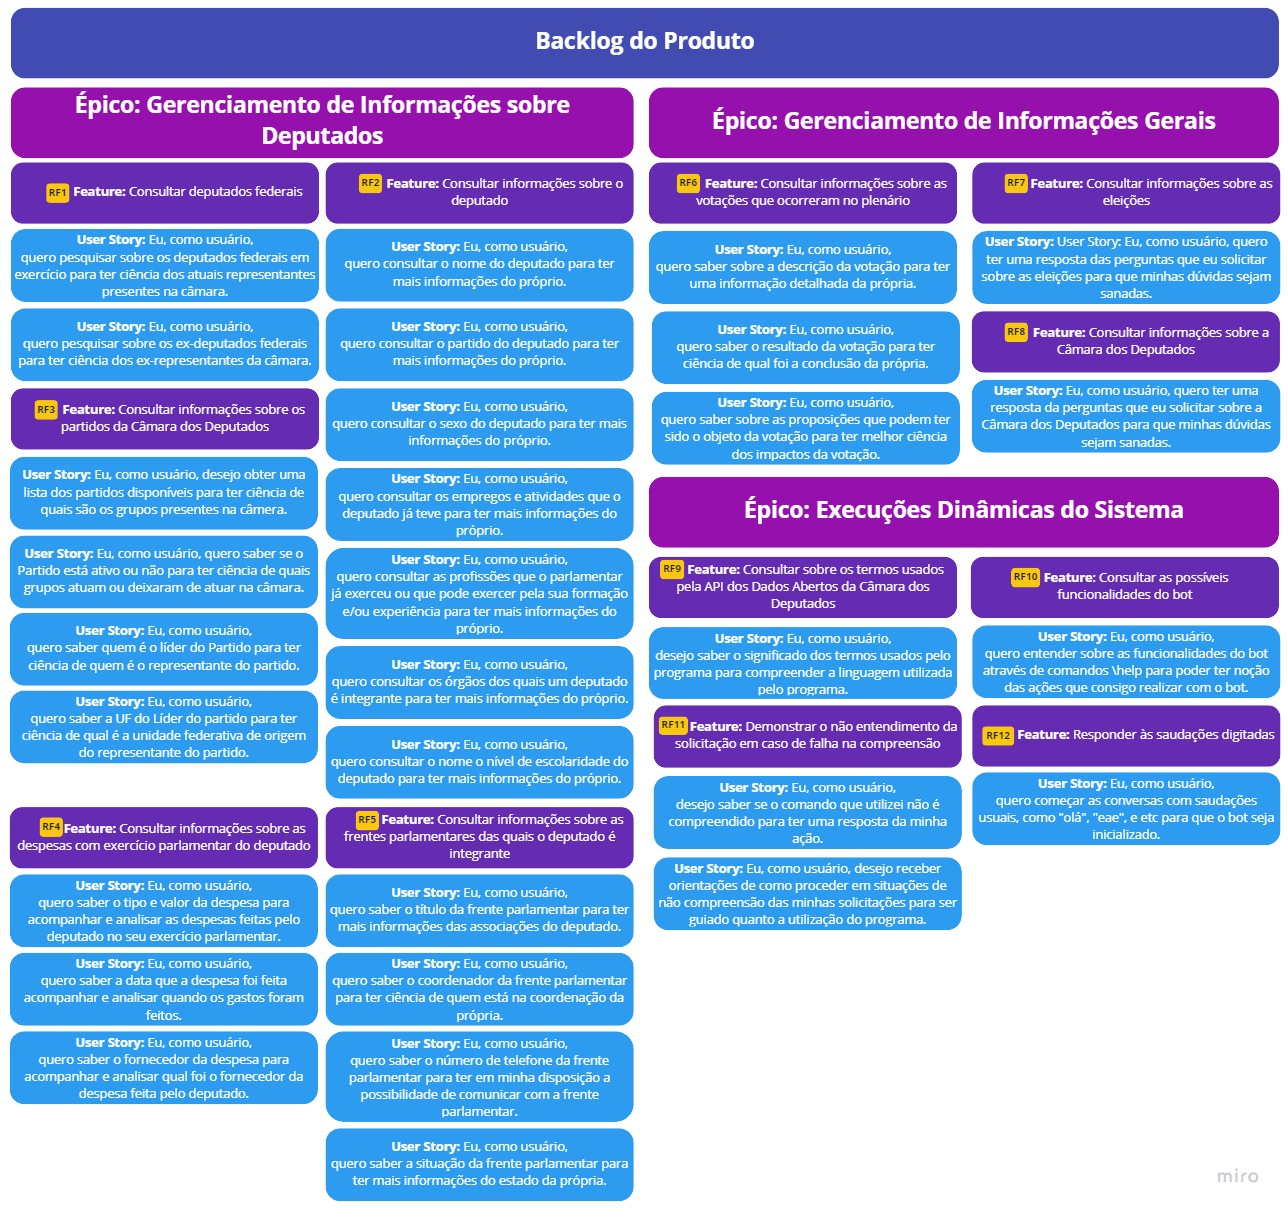
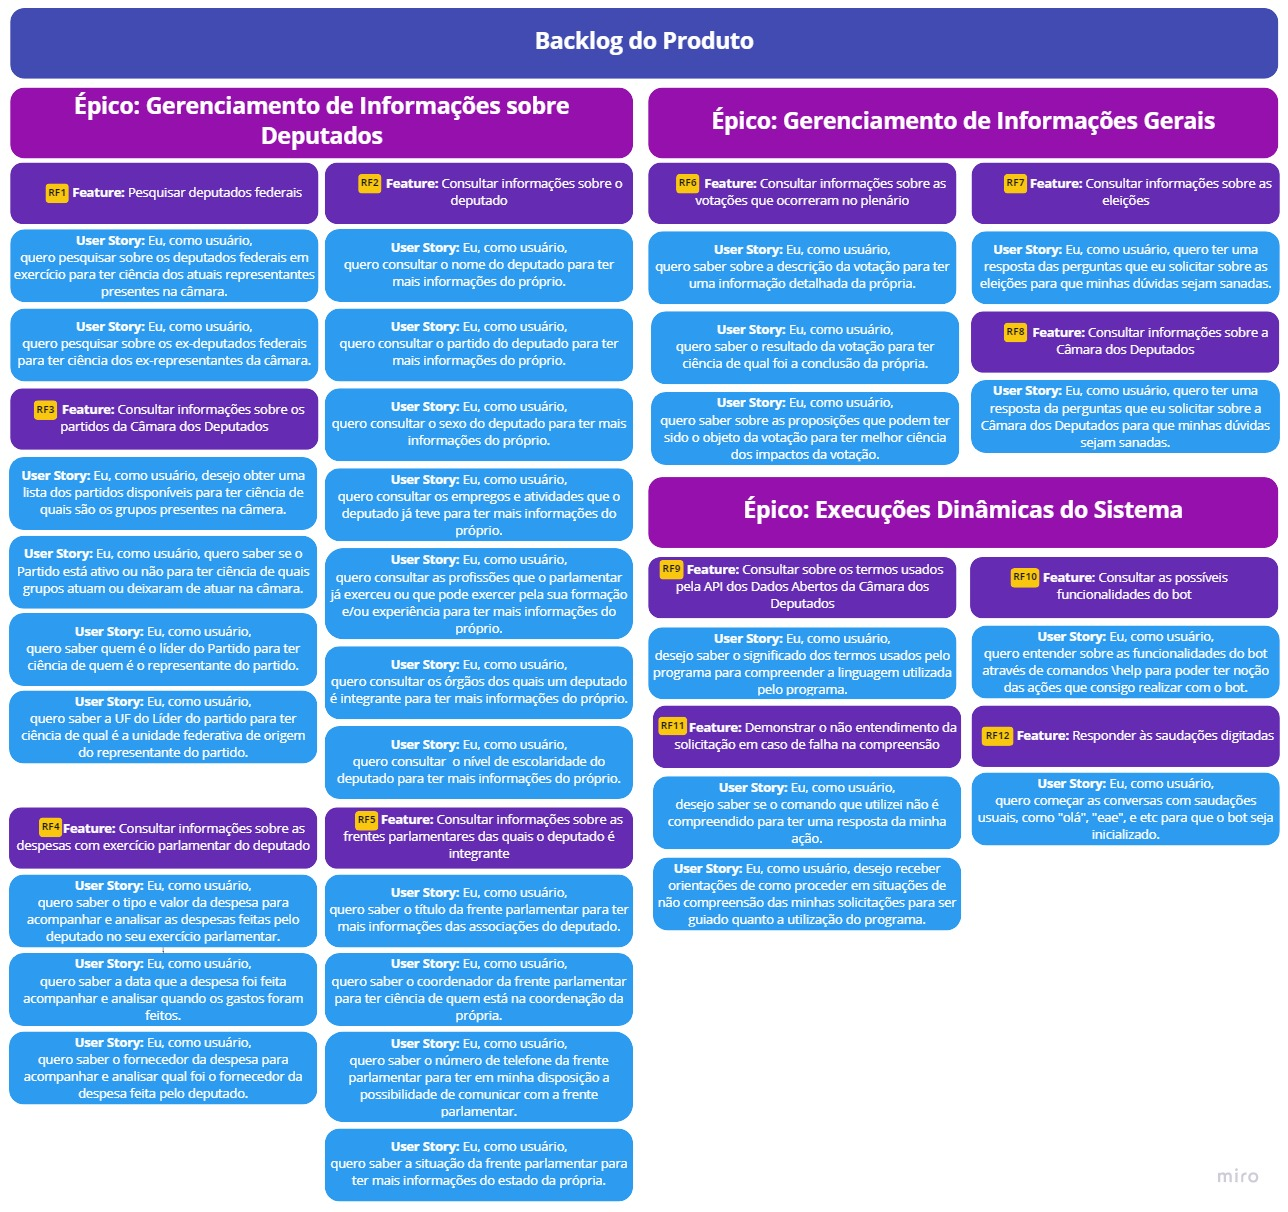
#29 #30 #33  - Atualização nos documentos para a U3

Changed region(s): [[0.0, 0.0305, 1.0, 0.9769], [0.0, 0.519, 0.2484, 0.6411]]

diff --git a/docs/visao/visao(U3).md b/docs/visao/visao(U3).md
@@ -20,7 +20,9 @@
 |23/02/2022|0.14|Generalização do aplicativo de mensagens e alteração do RNF4 | Pedro Cassiano |
 |23/02/2022|0.15|Alteração dos requisitos conforme feedback | Lucas Braun, Pedro Lucas, Pedro Vieira, Victor Cabral, Vinicius Roriz |
 |24/02/2022|0.16|Alteração dos requisitos conforme feedback | Vinicius Roriz |
-|14/03/2022|0.17|Atualização no Backlog do Produto conforme feedback | Victor Cabral |
+|09/03/2022|0.17|Versão revisada (ver comentários) | George Marsicano |
+|14/03/2022|0.18|Atualização no Backlog do Produto conforme feedback | Victor Cabral |
+|14/03/2022|0.19|Adição do Product Backlog Building|Lucas Braun, Pedro Lucas, Pedro Vieira, Victor Cabral, Vinicius Roriz|
 ## 1. Visão Geral
 ### 1.1 Declaração do Problema
 | | |
@@ -55,7 +57,7 @@ O objetivo do produto é fornecer informações sobre a Câmara dos Deputados à
 
 |Requisito|Épico|Descrição|
 |--------|-----|---------|
-|**RF1**| Gerenciamento de Informações sobre Deputados | Consultar deputados federais |
+|**RF1**| Gerenciamento de Informações sobre Deputados | Pesquisar deputados federais |
 |**RF2**| Gerenciamento de Informações sobre Deputados | Consultar informações sobre o deputado |
 |**RF3**| Gerenciamento de Informações sobre Deputados | Consultar informações sobre os partidos da Câmara dos Deputados |
 |**RF4**| Gerenciamento de Informações sobre Deputados | Consultar informações sobre as despesas com exercício parlamentar do deputado |
@@ -76,13 +78,12 @@ O objetivo do produto é fornecer informações sobre a Câmara dos Deputados à
 |**RNF2**| O bot usa a API dos Dados Abertos da Câmara dos Deputados |
 |**RNF3**| O bot deve conversar em português |
 |**RNF4**| O bot deve conversar casualmente |
-|**RNF5**| Consultar deputados por nome e sobrenome, partido e UF |
 
 ### 1.5	Mínimo Produto Viável (MVP)
 
 |Requisito|Descrição|
 |--------|---------|
-|**RF1**| Consultar deputados federais que estão em exercício e ex-deputados federais |
+|**RF1**| Pesquisar deputados federais que estão em exercício e ex-deputados federais |
 |**RF2**| Consultar informações sobre o deputado |
 |**RF3**| Consultar informações sobre os partidos da Câmara dos Deputados |
 |**RF10**| Consultar as possíveis funcionalidades do bot |
@@ -91,12 +92,17 @@ O objetivo do produto é fornecer informações sobre a Câmara dos Deputados à
 |**RNF1**| A linguagem de programação usada será Python |
 |**RNF2** | O bot usa a API dos Dados Abertos da Câmara dos Deputados |
 |**RNF3** | O bot deve conversar em português |
-|**RNF5** | Consultar deputados por nome e sobrenome, partido e UF |
 
-### 1.6	Backlog do Produto
+### 1.6	Backlog do Produto (SAFe)
 
 <p align="center">
   <img src="https://github.com/FGAUnB-REQ-GM/2021.2-DepBot/blob/visao/docs/assets/requisitosSAFe_V3.jpg?raw=true">
+</p>
+
+### 1.7	Product Backlog Building (PBB Canvas)
+
+<p align="center">
+  <img src="https://github.com/FGAUnB-REQ-GM/2021.2-DepBot/blob/visao/docs/assets/pbb_V1.jpg?raw=true">
 </p>
 
 ## 2. Abordagem de Desenvolvimento de Software

diff --git a/docs/canvas/canvas(U3).md b/docs/canvas/canvas(U3).md
@@ -1,0 +1,20 @@
+# Canvas MVP
+
+## Histórico de Versões
+|Data|Versão|Modificação|Autores|
+|:---|:-----|:----------|:------|
+|20/02/2022|0.1|Criação do documento|Lucas Braun, Pedro Lucas, Pedro Vieira, Victor Cabral, Vinicius Roriz|
+|22/02/2022|0.2|Atualização do documento para versão com imagem |Lucas Braun, Pedro Lucas, Pedro Vieira, Victor Cabral|
+|24/02/2022|0.3|Atualização do documento com nova versão da imagem |Lucas Braun, Pedro Lucas, Pedro Vieira, Victor Cabral, Vinicius Roriz|
+|09/03/2022|0.4|Versão revisada (ver comentários e realizar os ajustes) |George Marsicano|
+|15/03/2022|0.5|Atualização no documento canvas conforme feedback|Pedro Vieira, Victor Cabral|
+
+## Imagem do documentos Canvas:
+
+<span style="color:red">é preciso criar uma persona e caracterizá-la, exemplo: Maria, 23 anos, classe média, estudante de direito,...</span>
+<span style="color:red">As jornadas referem-se as ações da persona ao buscar as informações dos deputados, ou seja, como a persona faz, atualmente, para buscar as informações. Sem pensar no produto que será feito.</span>
+<span style="color:red">Cada um dos resultados esperados são mensuráveis? Como? Esses resultados devem estar claramente estabelecidos para que, futuramente, seja possível, de forma objetiva (comprobatória), se os resultados foram alcançados ou não.</span>
+
+<p align="center">
+  <img src="https://github.com/FGAUnB-REQ-GM/2021.2-DepBot/blob/main/docs/assets/canvas_V3.jpg?raw=true">
+</p>

diff --git a/docs/_sidebar.md b/docs/_sidebar.md
@@ -1,3 +1,3 @@
 - Documentos
   - [Visão](visao/visao(U3).md)
-  - [Canvas](canvas/canvas(U2).md)
+  - [Canvas](canvas/canvas(U3).md)
